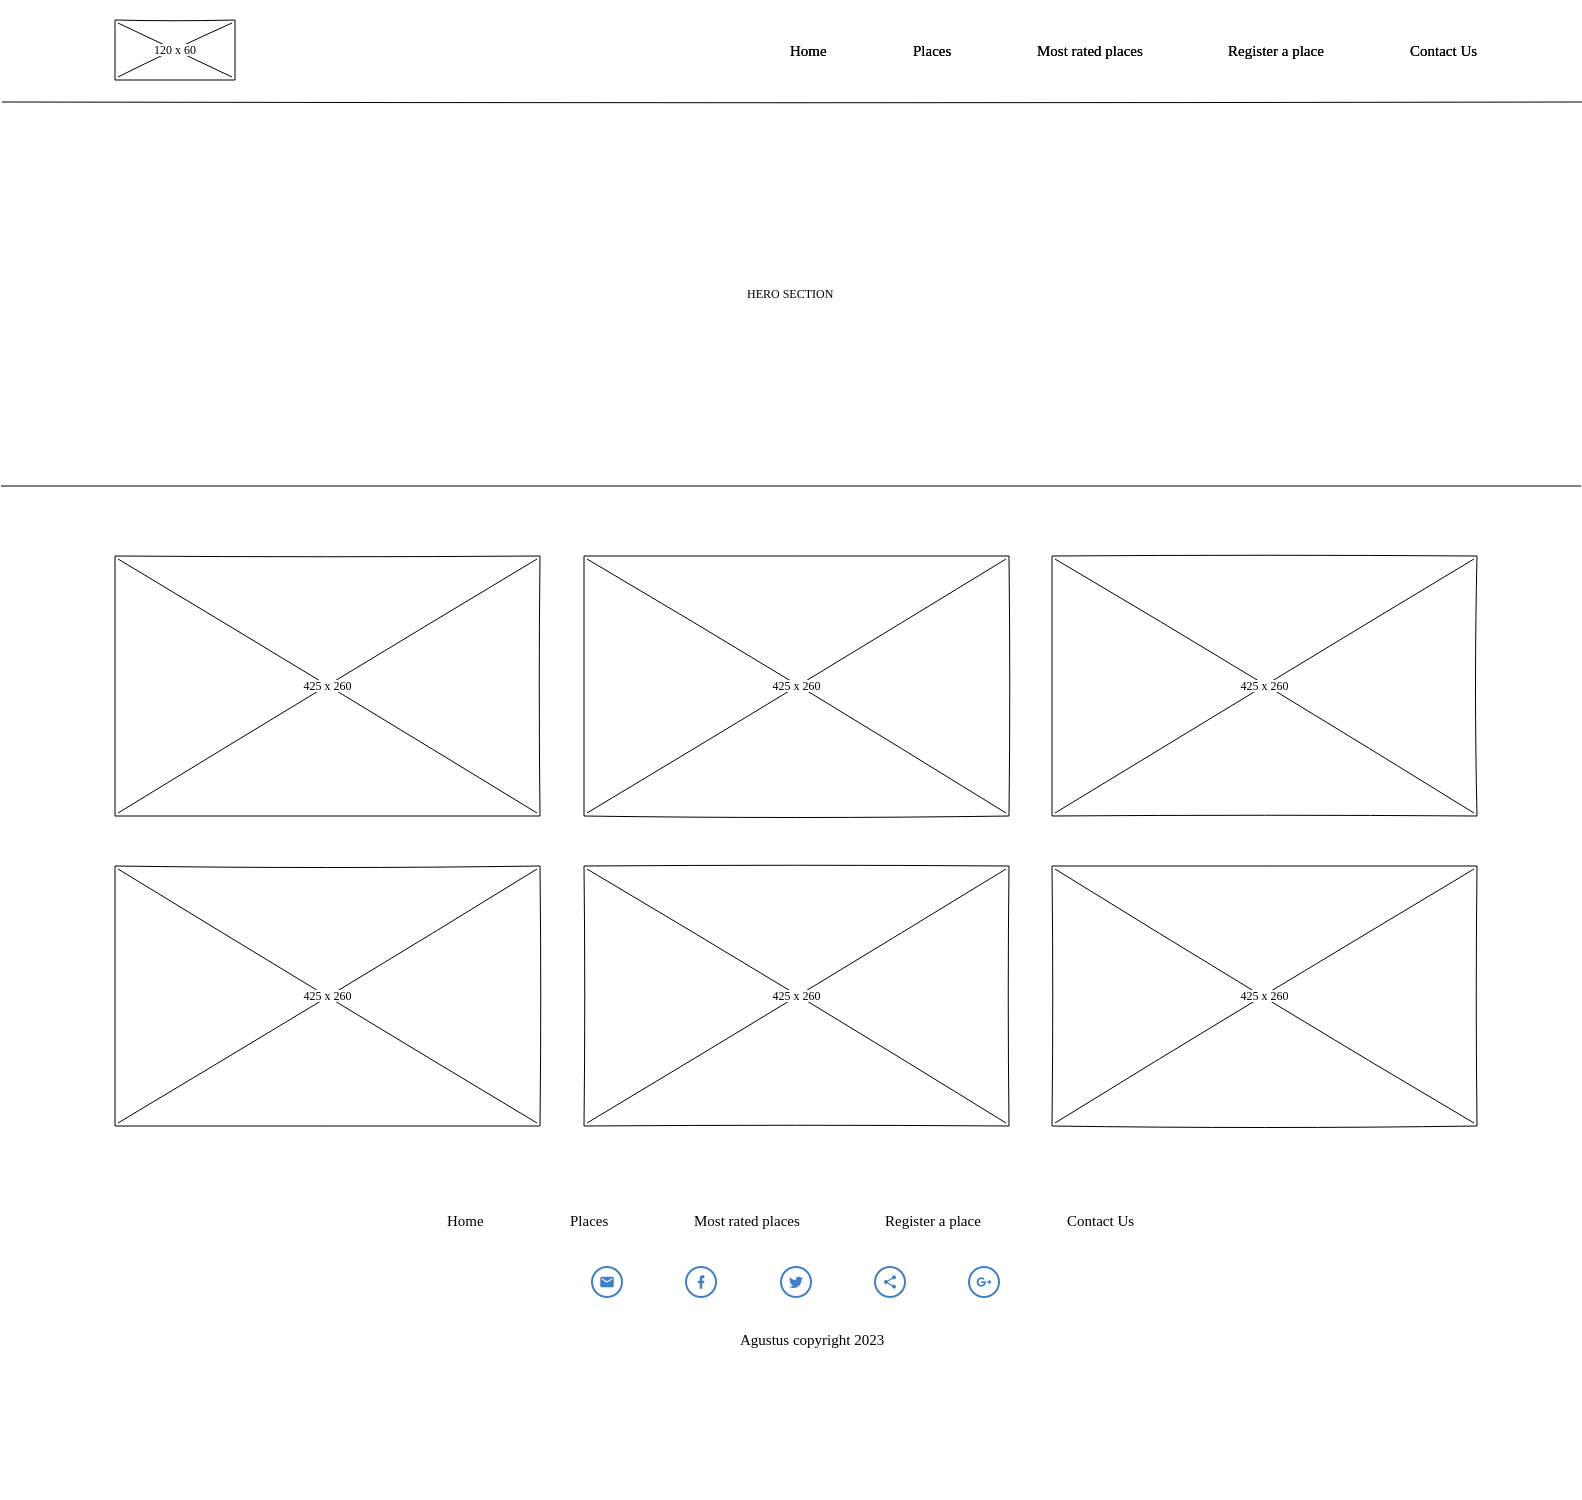
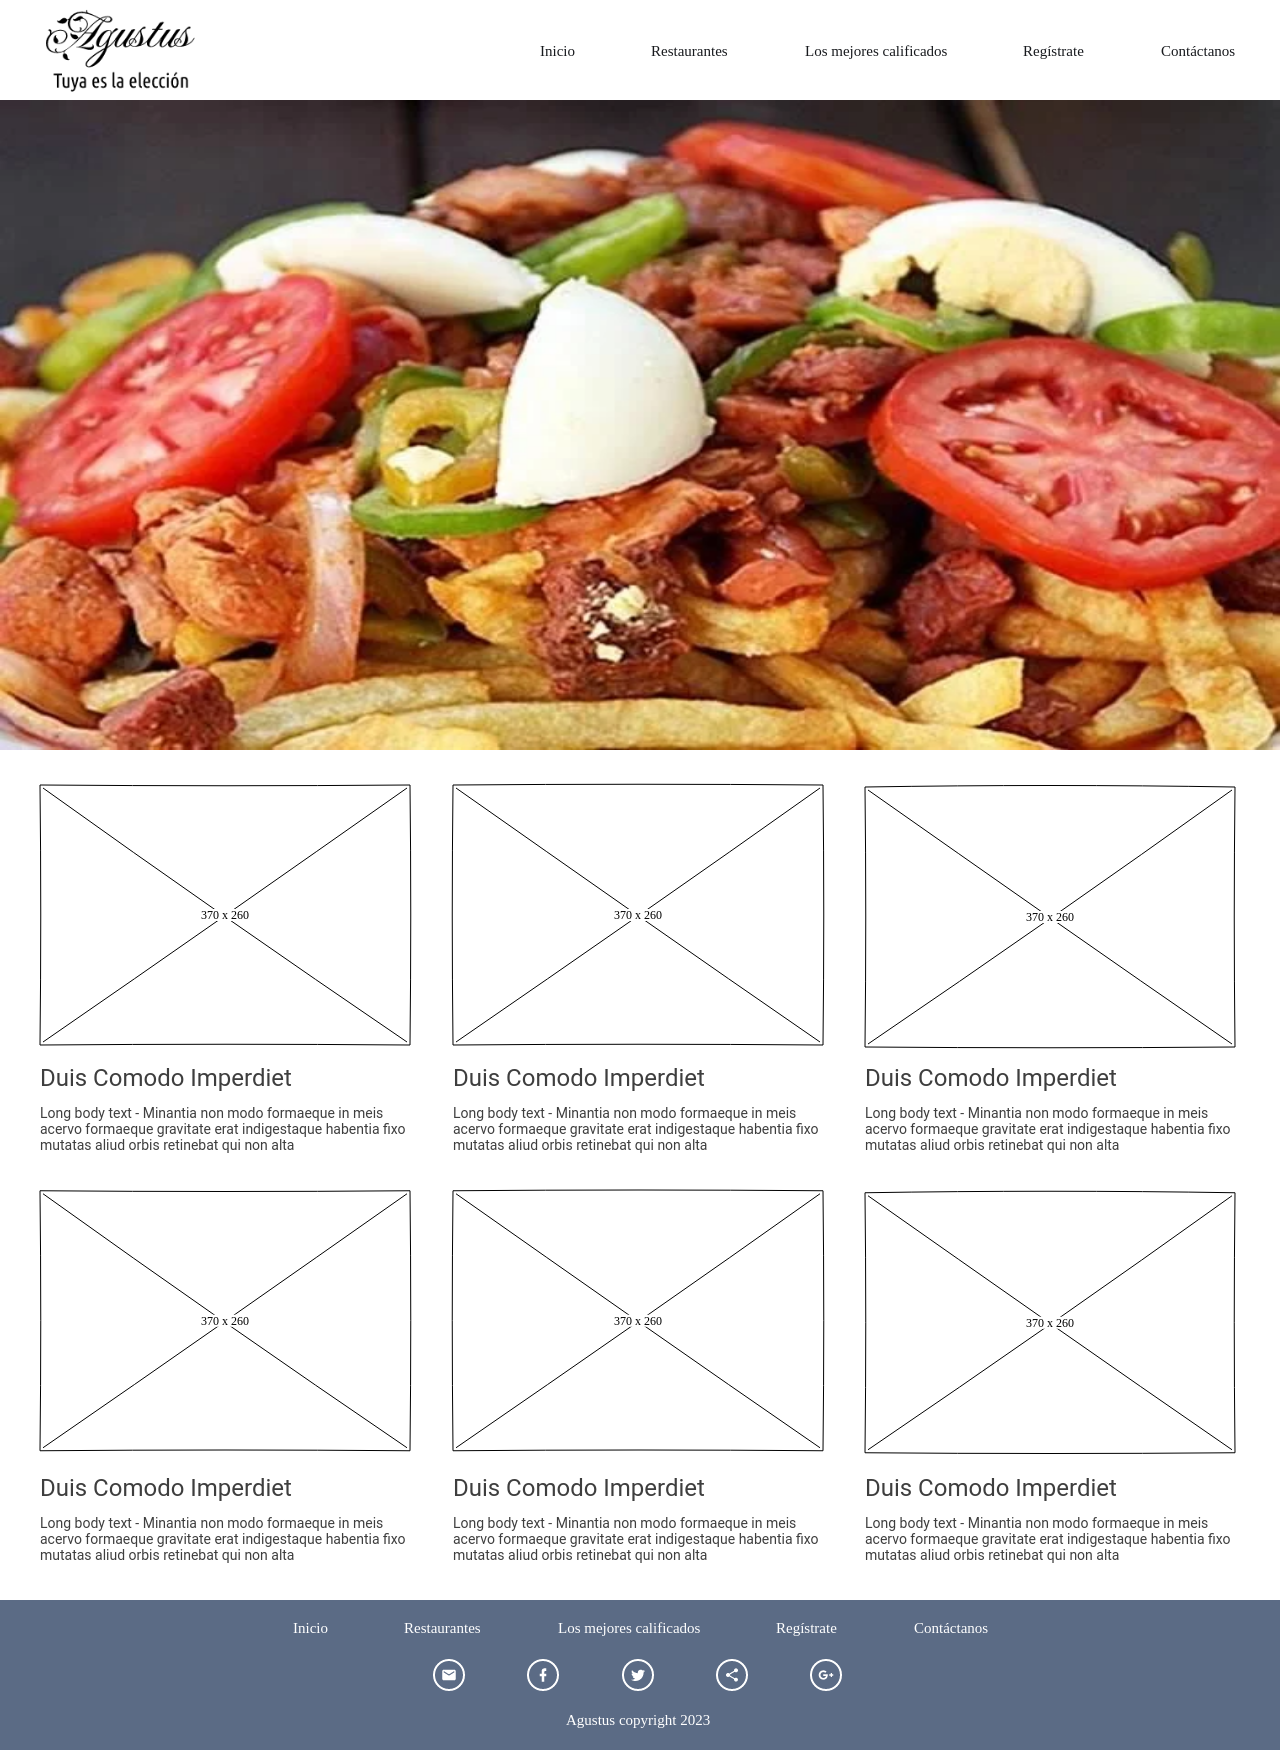
Update site plan

diff --git a/agustus/site-plan.html b/agustus/site-plan.html
@@ -170,7 +170,7 @@
         <img src="images/agustus_home_page.png" alt="home page wireframe">
 
         <h3>Show a list restaurants</h3>
-        <img src="images/places.png" alt="page 2 wireframe">
+        <img src="images/restaurantes.png" alt="page 2 wireframe">
 
         <h3>Show a specific restaurant</h3>
         <img src="images/sit_amet_consectetur.png" alt="page 3 wireframe">
